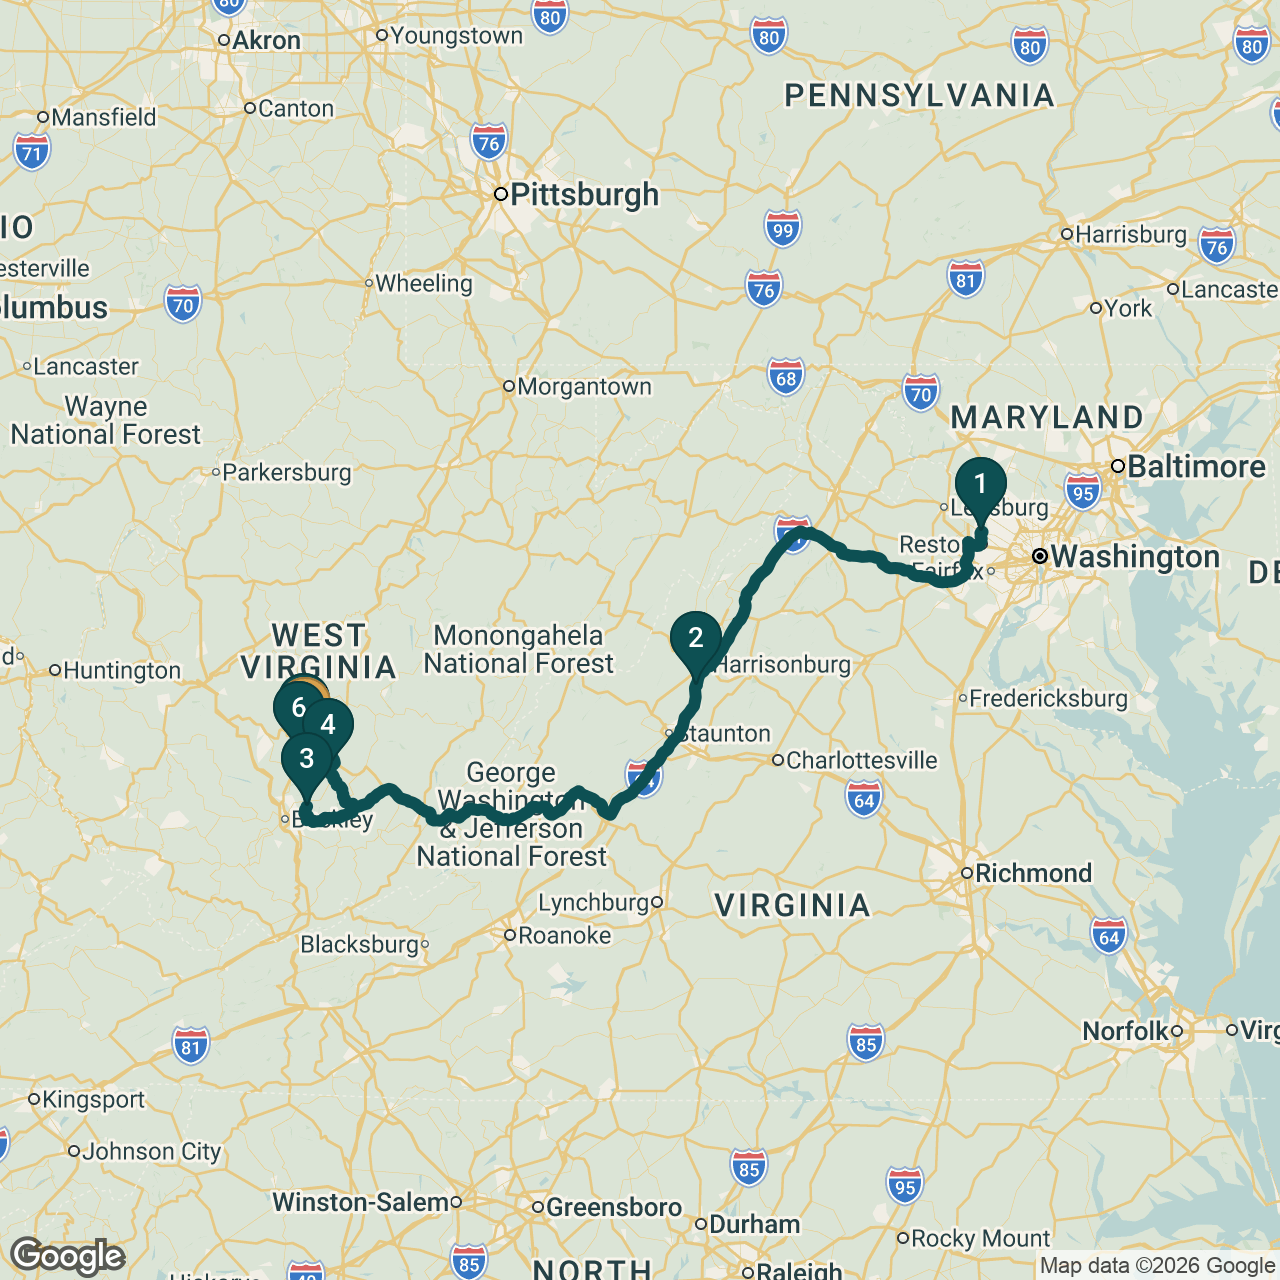
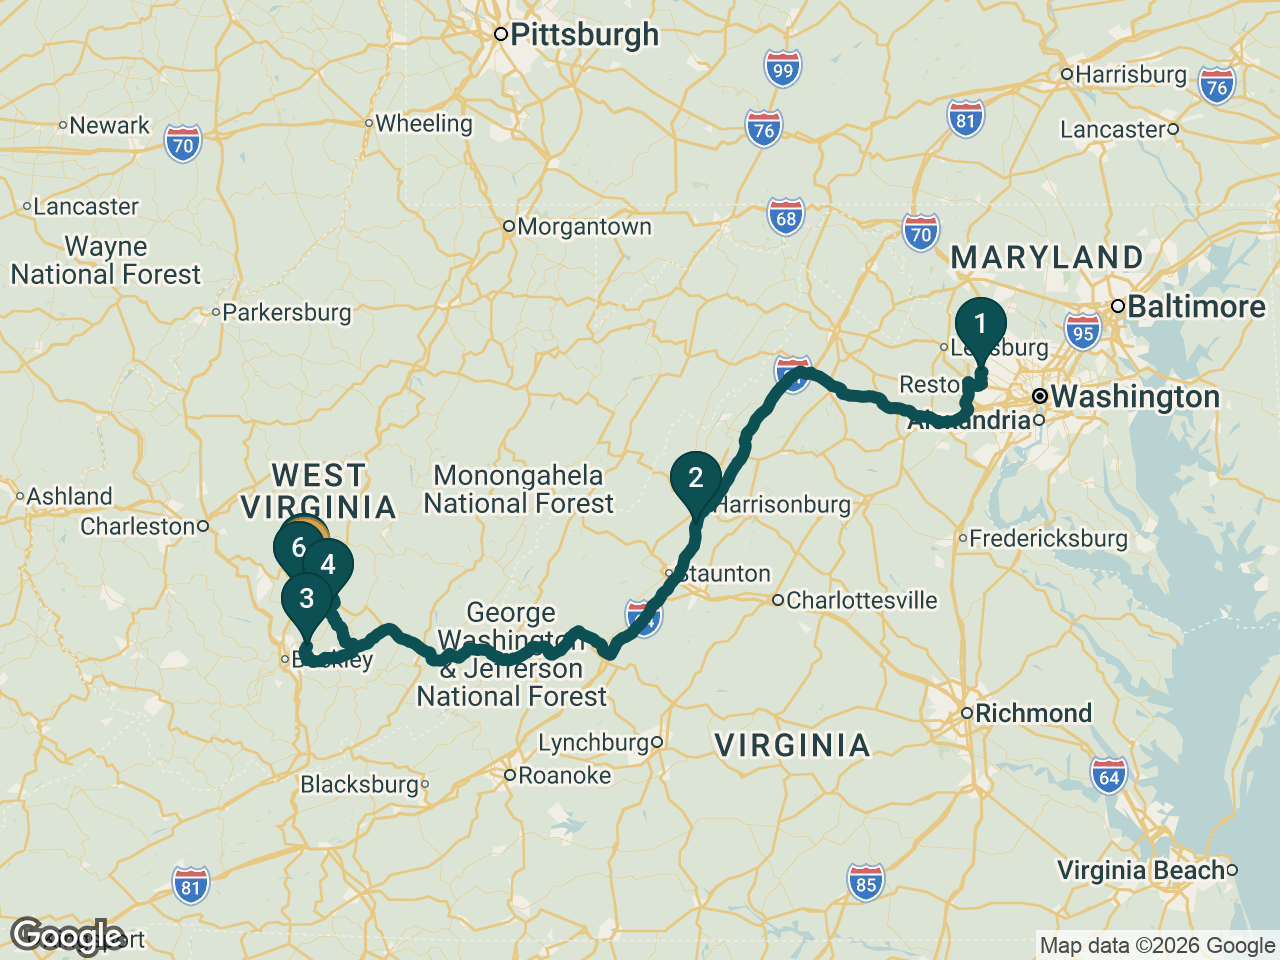
Fix rafting map filters and route framing

diff --git a/rafting2026/index.html b/rafting2026/index.html
@@ -15,9 +15,9 @@
       href="https://fonts.googleapis.com/css2?family=DM+Sans:wght@400;500;600;700&family=Newsreader:opsz,wght@6..72,400;6..72,500;6..72,600&display=swap"
       rel="stylesheet"
     />
-    <link rel="stylesheet" href="styles.css" />
+    <link rel="stylesheet" href="styles.css?v=20260728b" />
     <script src="config.js"></script>
-    <script src="script.js" defer></script>
+    <script src="script.js?v=20260728b" defer></script>
   </head>
   <body>
     <a class="skip-link" href="#main">Skip to itinerary</a>
@@ -414,10 +414,10 @@
               <img
                 id="static-route-map"
                 class="static-route-map"
-                src="assets/images/google-route-map.png"
+                src="assets/images/google-route-map.png?v=20260728b"
                 alt="Google road map showing the complete two-day route from Great Falls, Virginia to New River Gorge, West Virginia"
                 width="1280"
-                height="1280"
+                height="960"
                 loading="lazy"
               />
               <div class="map-legend" aria-hidden="true">

diff --git a/rafting2026/script.js b/rafting2026/script.js
@@ -12,15 +12,15 @@ const routeButtons = [...document.querySelectorAll("[data-route-filter]")];
 
 const staticMapViews = {
   all: {
-    src: "assets/images/google-route-map.png",
+    src: "assets/images/google-route-map.png?v=20260728b",
     alt: "Google road map showing the complete two-day route from Great Falls, Virginia to New River Gorge, West Virginia",
   },
   day1: {
-    src: "assets/images/google-route-map-day1.png",
+    src: "assets/images/google-route-map-day1.png?v=20260728b",
     alt: "Google road map showing the Day 1 route from Great Falls, Virginia through the planned stops to New River Gorge, West Virginia",
   },
   day2: {
-    src: "assets/images/google-route-map-day2.png",
+    src: "assets/images/google-route-map-day2.png?v=20260728b",
     alt: "Google road map showing the Day 2 route around New River Gorge and the return to Great Falls, Virginia",
   },
 };

diff --git a/rafting2026/styles.css b/rafting2026/styles.css
@@ -1896,7 +1896,7 @@ h3 {
 
   .map-frame {
     min-height: 0;
-    aspect-ratio: 1;
+    aspect-ratio: 4 / 3;
   }
 
   .route-shell {

diff --git a/rafting2026/README.md b/rafting2026/README.md
@@ -48,7 +48,7 @@ Static browser map keys are visible to visitors by design. Security comes from s
 ## Generate the static Google route map
 
 The included generator calls the Routes API for accurate road polylines, then sends
-those polylines to the Maps Static API. It creates three 1280×1280 PNGs for the full
+those polylines to the Maps Static API. It creates three 1280×960 PNGs for the full
 trip, Day 1, and Day 2. The key is never written into the images or committed source.
 
 From this folder:
